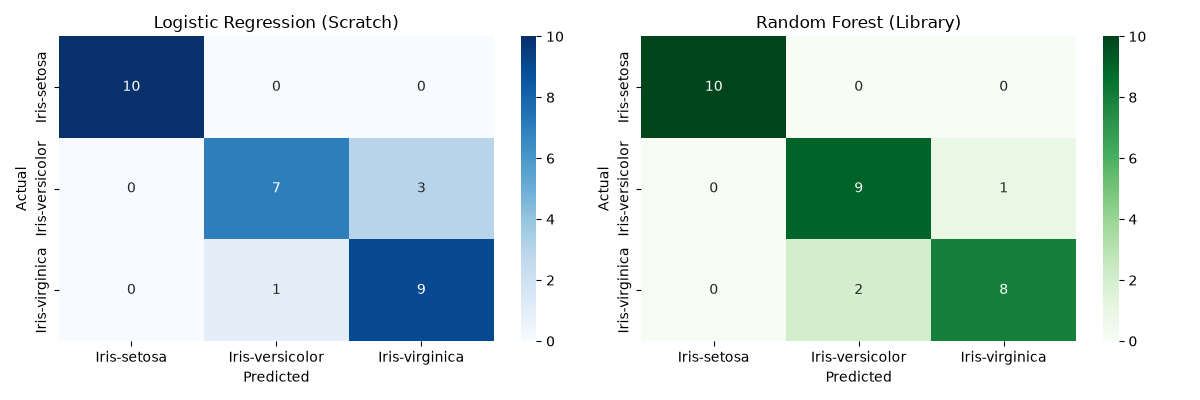
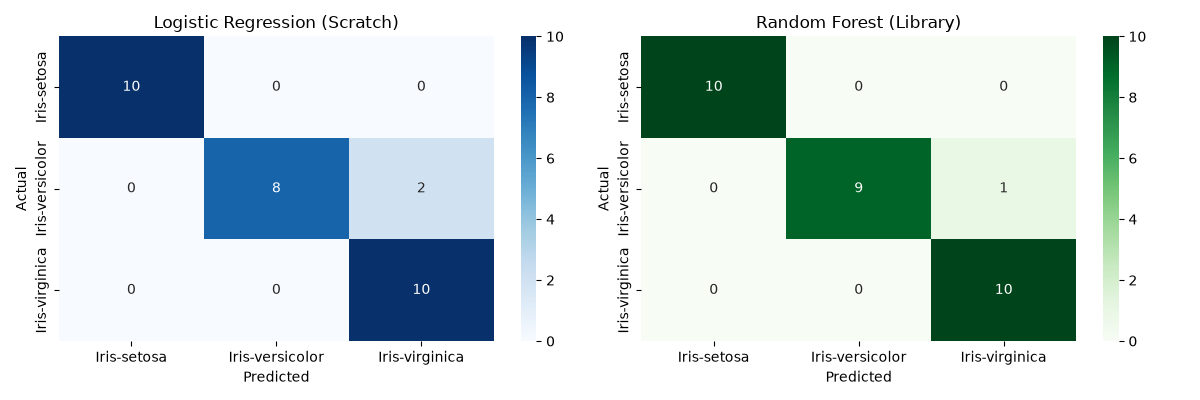
Add main.py, add report_metrics.csv and updated comments

Changed region(s): [[0.1542, 0.33, 0.4317, 0.87], [0.6475, 0.6, 0.8942, 0.87]]

diff --git a/main.py b/main.py
@@ -1,0 +1,59 @@
+import sys
+import os
+import pandas as pd
+from sklearn.ensemble import RandomForestClassifier
+
+# Add src folder to module search path
+sys.path.append(os.path.abspath(os.path.dirname(__file__)))
+
+from src.preprocess import load_and_preprocess_data
+from src.logistic_scratch import LogisticRegressionScratchOvR
+from src.evaluate import evaluate_model, plot_confusion_matrices
+
+def main():
+    print("  IRIS CLASSIFICATION PIPELINE: SCRATCH VS LIBRARY  ")
+
+    # 1. Load and preprocess dataset
+    data_path = os.path.join("data", "Iris.csv")
+    print(f"\n[1/4] Loading and preprocessing data from '{data_path}'...")
+    df, X_train, X_test, y_train, y_test, encoder = load_and_preprocess_data(data_path)
+    print(f"      Train samples: {X_train.shape[0]}, Test samples: {X_test.shape[0]}")
+
+    # 2. Train and evaluate Scratch Logistic Regression
+    print("\n[2/4] Training Model 1: Logistic Regression (Scratch OvR)...")
+    scratch_model = LogisticRegressionScratchOvR(lr=0.1, num_iter=1000)
+    scratch_model.fit(X_train, y_train)
+    scratch_preds = scratch_model.predict(X_test)
+    scratch_metrics, scratch_cm = evaluate_model(y_test, scratch_preds, "Logistic Regression (Scratch)")
+
+    # 3. Train and evaluate Library Random Forest
+    print("\n[3/4] Training Model 2: Random Forest (Library)...")
+    rf_model = RandomForestClassifier(n_estimators=100, random_state=21)
+    rf_model.fit(X_train, y_train)
+    rf_preds = rf_model.predict(X_test)
+    rf_metrics, rf_cm = evaluate_model(y_test, rf_preds, "Random Forest (Library)")
+
+    # 4. Print & Save Comparison Results
+    print("\n[4/4] Model Performance Comparison:")
+    results_df = pd.DataFrame([scratch_metrics, rf_metrics])
+    print("-" * 50)
+    print(results_df.to_string(index=False))
+    print("-" * 50)
+
+    # Save metrics table to CSV
+    metrics_path = os.path.join("outputs", "report_metrics.csv")
+    results_df.to_csv(metrics_path, index=False)
+    print(f"Metrics table exported to '{metrics_path}'")
+
+    # Generate and save confusion matrices plot
+    cm_plot_path = os.path.join("outputs", "figures", "confusion_matrices.png")
+    plot_confusion_matrices(
+        scratch_cm, rf_cm, 
+        "Logistic Regression (Scratch)", "Random Forest (Library)", 
+        encoder.classes_, save_path=cm_plot_path
+    )
+
+    print("\nPipeline execution complete! All plots saved in 'outputs/figures/'.\n")
+
+if __name__ == "__main__":
+    main()

diff --git a/src/evaluate.py b/src/evaluate.py
@@ -4,6 +4,7 @@ import seaborn as sns
 from sklearn.metrics import accuracy_score, precision_score, recall_score, f1_score, confusion_matrix
 
 def evaluate_model(y_true, y_pred, model_name="Model"):
+    # Calculate performance metrics
     acc = accuracy_score(y_true, y_pred)
     prec = precision_score(y_true, y_pred, average='macro')
     rec = recall_score(y_true, y_pred, average='macro')
@@ -23,11 +24,13 @@ def plot_confusion_matrices(cm1, cm2, name1, name2, class_names, save_path="../o
     os.makedirs(os.path.dirname(save_path), exist_ok=True)
     fig, axes = plt.subplots(1, 2, figsize=(12, 4))
 
+    # Plot Model 1 Confusion Matrix (Logistic Regression)
     sns.heatmap(cm1, annot=True, fmt='d', cmap='Blues', ax=axes[0], xticklabels=class_names, yticklabels=class_names)
     axes[0].set_title(name1)
     axes[0].set_xlabel("Predicted")
     axes[0].set_ylabel("Actual")
 
+    # Plot Model 2 Confusion Matrix (Random Forest)
     sns.heatmap(cm2, annot=True, fmt='d', cmap='Greens', ax=axes[1], xticklabels=class_names, yticklabels=class_names)
     axes[1].set_title(name2)
     axes[1].set_xlabel("Predicted")
